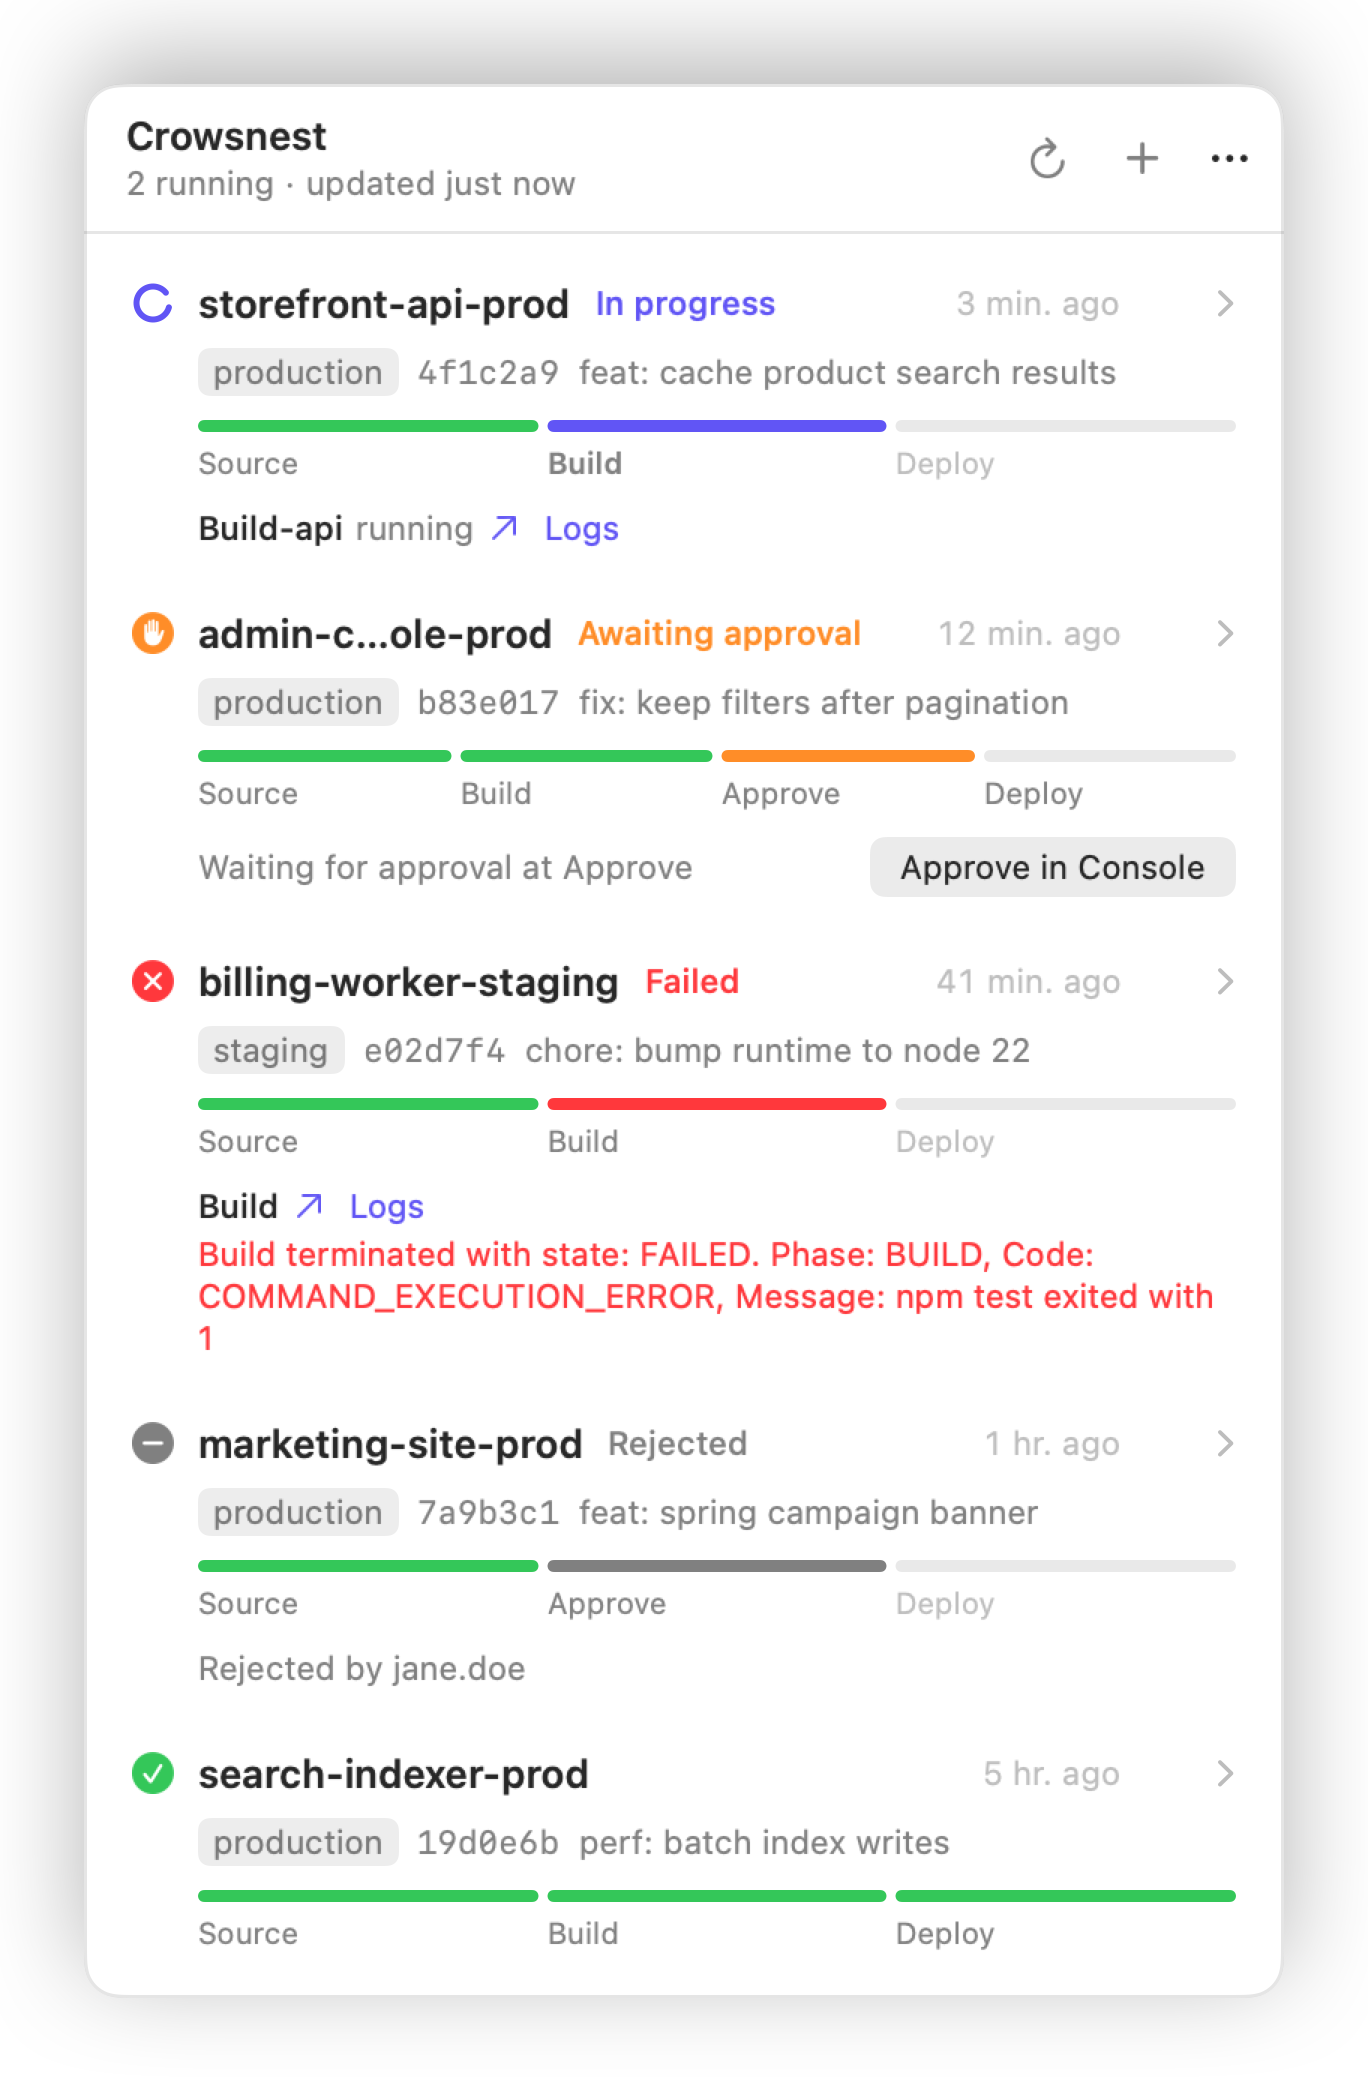
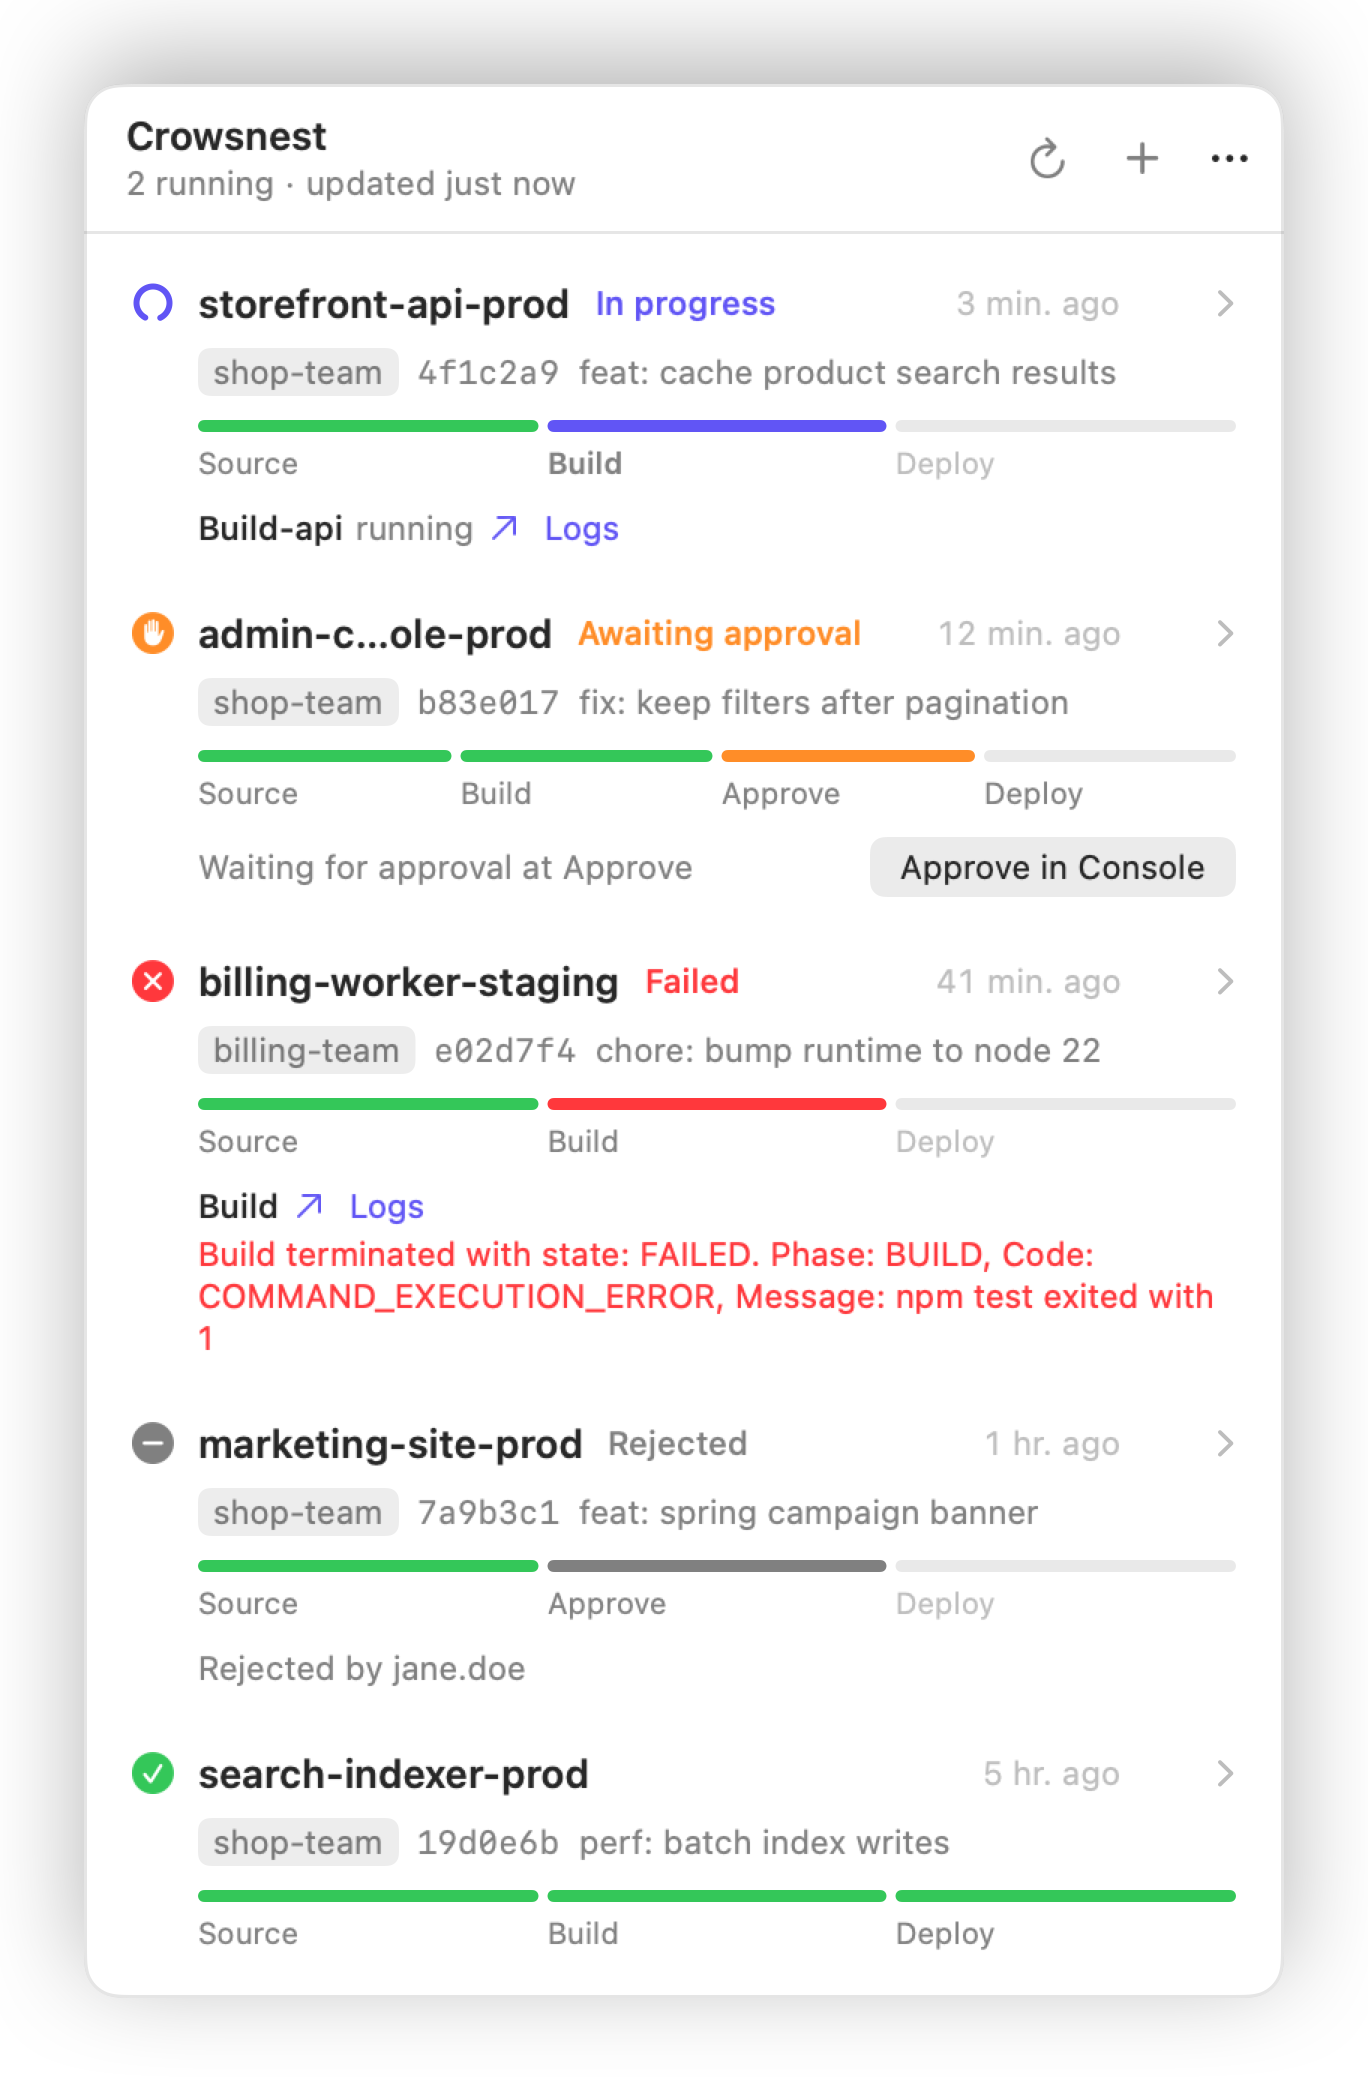
docs: 스크린샷 예시 프로필을 롤 이름으로 — 환경별로 묶는 것처럼 보이지 않게

diff --git a/Tests/CrowsnestKitTests/ScreenshotTests.swift b/Tests/CrowsnestKitTests/ScreenshotTests.swift
@@ -39,12 +39,7 @@ struct ScreenshotTests {
     @Test func 프로필별로_묶기() throws {
         var configuration = AppConfiguration()
         configuration.groupByProfile = true
-        let store = PipelineStore(
-            previewSnapshots: SampleData.snapshots(now: now),
-            refreshedAt: now,
-            configuration: configuration,
-            availableUpdate: AppUpdate(version: "0.3.0", releaseURL: BuildInfo.releasesURL)
-        )
+        let store = PipelineStore(previewSnapshots: SampleData.snapshots(now: now), refreshedAt: now, configuration: configuration)
         try render(PanelChrome { PanelView(store: store) }, scheme: .dark, name: "panel-grouped")
     }
 
@@ -147,18 +142,18 @@ private struct PanelChrome<Content: View>: View {
 private enum SampleData {
     static func snapshots(now: Date) -> [PipelineSnapshot] {
         [
-            snapshot("storefront-api-prod", profile: "production", status: .inProgress, minutesAgo: 3, commit: ("4f1c2a9", "feat: cache product search results"), stages: [
+            snapshot("storefront-api-prod", profile: "shop-team", status: .inProgress, minutesAgo: 3, commit: ("4f1c2a9", "feat: cache product search results"), stages: [
                 stage("Source", .succeeded, [action("Source", .succeeded)]),
                 stage("Build", .inProgress, [action("Build-api", .inProgress, log: true), action("Build-worker", .succeeded)]),
                 stage("Deploy", .succeeded, current: false, [action("Deploy", .succeeded)]),
             ], now: now),
-            snapshot("admin-console-prod", profile: "production", status: .inProgress, minutesAgo: 12, commit: ("b83e017", "fix: keep filters after pagination"), stages: [
+            snapshot("admin-console-prod", profile: "shop-team", status: .inProgress, minutesAgo: 12, commit: ("b83e017", "fix: keep filters after pagination"), stages: [
                 stage("Source", .succeeded, [action("Source", .succeeded)]),
                 stage("Build", .succeeded, [action("Build", .succeeded)]),
                 stage("Approve", .inProgress, [action("Approve", .inProgress, awaiting: true)]),
                 stage("Deploy", nil, [action("Deploy", nil)]),
             ], now: now),
-            snapshot("billing-worker-staging", profile: "staging", status: .failed, minutesAgo: 41, commit: ("e02d7f4", "chore: bump runtime to node 22"), stages: [
+            snapshot("billing-worker-staging", profile: "billing-team", status: .failed, minutesAgo: 41, commit: ("e02d7f4", "chore: bump runtime to node 22"), stages: [
                 stage("Source", .succeeded, [action("Source", .succeeded)]),
                 stage("Build", .failed, [action(
                     "Build", .failed,
@@ -167,12 +162,12 @@ private enum SampleData {
                 )]),
                 stage("Deploy", .succeeded, current: false, [action("Deploy", .succeeded)]),
             ], now: now),
-            snapshot("marketing-site-prod", profile: "production", status: .failed, minutesAgo: 95, commit: ("7a9b3c1", "feat: spring campaign banner"), stages: [
+            snapshot("marketing-site-prod", profile: "shop-team", status: .failed, minutesAgo: 95, commit: ("7a9b3c1", "feat: spring campaign banner"), stages: [
                 stage("Source", .succeeded, [action("Source", .succeeded)]),
                 stage("Approve", .failed, [action("Approve", .failed, decidedBy: "jane.doe")]),
                 stage("Deploy", .succeeded, current: false, [action("Deploy", .succeeded)]),
             ], now: now),
-            snapshot("search-indexer-prod", profile: "production", status: .succeeded, minutesAgo: 60 * 5, commit: ("19d0e6b", "perf: batch index writes"), stages: [
+            snapshot("search-indexer-prod", profile: "shop-team", status: .succeeded, minutesAgo: 60 * 5, commit: ("19d0e6b", "perf: batch index writes"), stages: [
                 stage("Source", .succeeded, [action("Source", .succeeded)]),
                 stage("Build", .succeeded, [action("Build", .succeeded)]),
                 stage("Deploy", .succeeded, [action("Deploy", .succeeded)]),
@@ -182,11 +177,11 @@ private enum SampleData {
 
     static let catalogs = [
         ProfileCatalog(
-            profile: "production", region: "us-east-1",
+            profile: "shop-team", region: "us-east-1",
             pipelines: ["admin-console-prod", "marketing-site-prod", "search-indexer-prod", "storefront-api-prod"],
             loadError: nil
         ),
-        ProfileCatalog(profile: "staging", region: "us-west-2", pipelines: ["billing-worker-staging", "storefront-api-staging"], loadError: nil),
+        ProfileCatalog(profile: "billing-team", region: "us-west-2", pipelines: ["billing-worker-staging", "storefront-api-staging"], loadError: nil),
         ProfileCatalog(profile: "sandbox", region: "eu-west-1", pipelines: [], loadError: "인증 만료 · 터미널에서 aws sso login --profile sandbox"),
     ]
 

diff --git a/Sources/CrowsnestKit/Store/PipelineStore.swift b/Sources/CrowsnestKit/Store/PipelineStore.swift
@@ -86,11 +86,9 @@ final class PipelineStore {
         previewSnapshots: [PipelineSnapshot],
         catalogs: [ProfileCatalog] = [],
         refreshedAt: Date,
-        configuration: AppConfiguration = AppConfiguration(),
-        availableUpdate: AppUpdate? = nil
+        configuration: AppConfiguration = AppConfiguration()
     ) {
         self.configuration = configuration
-        self.availableUpdate = availableUpdate
         // 스크린샷 중에 GitHub 를 부르지 않게
         lastUpdateCheck = .distantFuture
         configurationLoadError = nil

diff --git a/README.md b/README.md
@@ -105,7 +105,7 @@ Open **Settings** from the `···` menu in the panel header, or press ⌘, whil
   <img src="docs/images/settings-aws.png" width="556" alt="AWS settings: aws CLI path, default region and per-profile visibility and region">
 </p>
 
-- **General** — language, open at login, group the panel by profile, check for updates, refresh interval while idle and while a deployment runs, slow down in Low Power Mode.
+- **General** — language, open at login, group the panel by AWS profile (role), check for updates, refresh interval while idle and while a deployment runs, slow down in Low Power Mode.
 - **Notifications** — turn notifications on or off per event (succeeded, failed or stopped, approval needed, rejected) and toggle the sound.
 - **AWS** — the `aws` executable in use, default region, and for every profile whether to show it and which region to use.
 
@@ -118,10 +118,10 @@ If you switch between several roles, add one profile per role with **+** next to
 
 The profile is written to `~/.aws/config` with `aws configure set`. To remove it, delete its section from that file.
 
-With many pipelines across roles, turn on **Group pipelines by profile in the panel** in **Settings → General** to show each profile under its own heading.
+With many pipelines across roles, turn on **Group pipelines by AWS profile (role) in the panel** in **Settings → General** to show each profile under its own heading.
 
 <p align="center">
-  <img src="docs/images/panel-grouped.png" width="456" alt="Panel grouped by profile, with a new version note at the top">
+  <img src="docs/images/panel-grouped.png" width="456" alt="Panel with pipelines grouped under each profile">
 </p>
 
 <p align="center">
@@ -133,7 +133,7 @@ Everything is stored in `~/.config/crowsnest/config.json`, so you can also keep 
 | Key | Default | Description |
 | --- | --- | --- |
 | `defaultRegion` | `"ap-northeast-1"` | Region for profiles that have none in `aws configure` (e.g. SSO-only profiles). |
-| `regionOverrides` | `{}` | Region per profile, e.g. `{"staging": "us-west-2"}`. Pipelines you already picked follow the new region. |
+| `regionOverrides` | `{}` | Region per profile, e.g. `{"billing-team": "us-west-2"}`. Pipelines you already picked follow the new region. |
 | `hiddenProfiles` | `[]` | Profiles to leave out. Their pipelines disappear from the panel and are not polled until shown again. |
 | `awsCLIPath` | — | Path to the `aws` executable. When empty, `/opt/homebrew/bin`, `/usr/local/bin` and `/usr/bin` are searched. |
 | `pollIntervalSeconds` | `30` | Refresh interval when nothing is running. |

diff --git a/README.ko.md b/README.ko.md
@@ -107,7 +107,7 @@ cd crowsnest
   <img src="docs/images/settings-aws.png" width="556" alt="AWS 설정: aws CLI 경로, 기본 리전, 프로필별 보이기와 리전">
 </p>
 
-- **일반** — 언어, 로그인할 때 자동 실행, 패널을 프로필별로 묶기, 새 버전 확인, 쉴 때 · 배포 중일 때 갱신 주기, 저전력 모드에서 천천히
+- **일반** — 언어, 로그인할 때 자동 실행, 패널을 AWS 프로필(롤)별로 묶기, 새 버전 확인, 쉴 때 · 배포 중일 때 갱신 주기, 저전력 모드에서 천천히
 - **알림** — 종류별로 켜고 끄기(성공 · 실패와 중지 · 승인 필요 · 반려), 소리
 - **AWS** — 쓰는 `aws` 실행 파일, 기본 리전, 프로필마다 보일지와 쓸 리전
 
@@ -120,10 +120,10 @@ cd crowsnest
 
 `aws configure set` 으로 `~/.aws/config` 에 써짐. 지울 때는 그 파일에서 해당 섹션을 지우면 됨
 
-롤마다 파이프라인이 많으면 **설정 → 일반** 의 **패널에서 프로필별로 묶기** 를 켜서 프로필마다 소제목 아래로 모아 볼 수 있음
+롤마다 파이프라인이 많으면 **설정 → 일반** 의 **패널에서 AWS 프로필(롤)별로 묶기** 를 켜서 프로필마다 소제목 아래로 모아 볼 수 있음
 
 <p align="center">
-  <img src="docs/images/panel-grouped.png" width="456" alt="프로필별로 묶인 패널과 맨 위의 새 버전 안내">
+  <img src="docs/images/panel-grouped.png" width="456" alt="프로필마다 소제목 아래로 묶인 패널">
 </p>
 
 <p align="center">
@@ -135,7 +135,7 @@ cd crowsnest
 | 키 | 기본값 | 설명 |
 | --- | --- | --- |
 | `defaultRegion` | `"ap-northeast-1"` | `aws configure` 에 리전이 없는 프로필(SSO 전용 등)에 쓸 리전 |
-| `regionOverrides` | `{}` | 프로필별 리전. 예: `{"staging": "us-west-2"}`. 이미 고른 파이프라인도 새 리전을 따라감 |
+| `regionOverrides` | `{}` | 프로필별 리전. 예: `{"billing-team": "us-west-2"}`. 이미 고른 파이프라인도 새 리전을 따라감 |
 | `hiddenProfiles` | `[]` | 뺄 프로필. 그 파이프라인은 패널에서 빠지고 다시 보이게 할 때까지 조회하지 않음 |
 | `awsCLIPath` | — | `aws` 실행 파일 경로. 비우면 `/opt/homebrew/bin` · `/usr/local/bin` · `/usr/bin` 에서 찾음 |
 | `pollIntervalSeconds` | `30` | 쉴 때 갱신 주기(초) |
